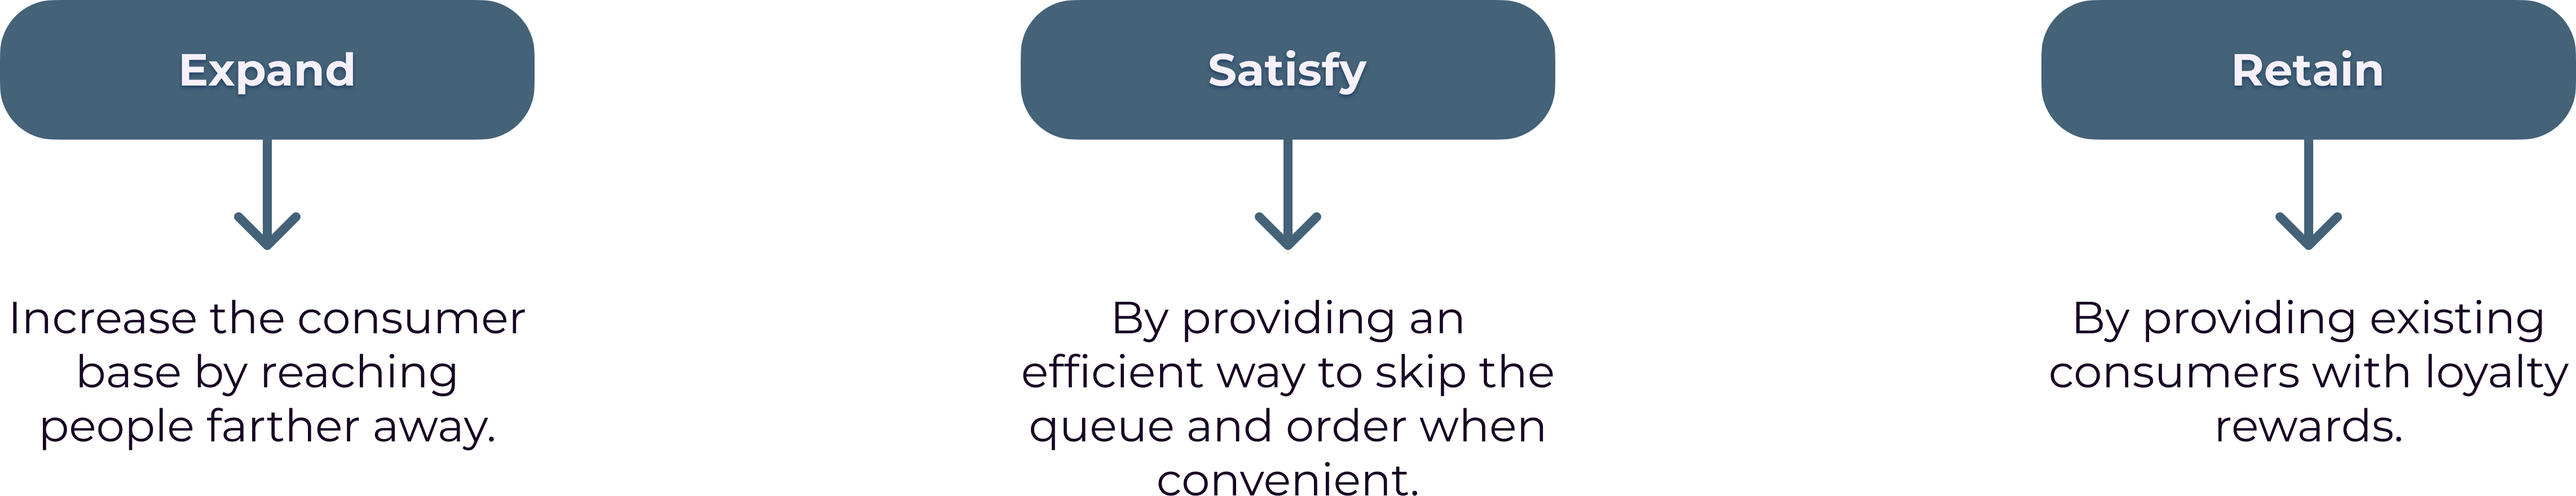
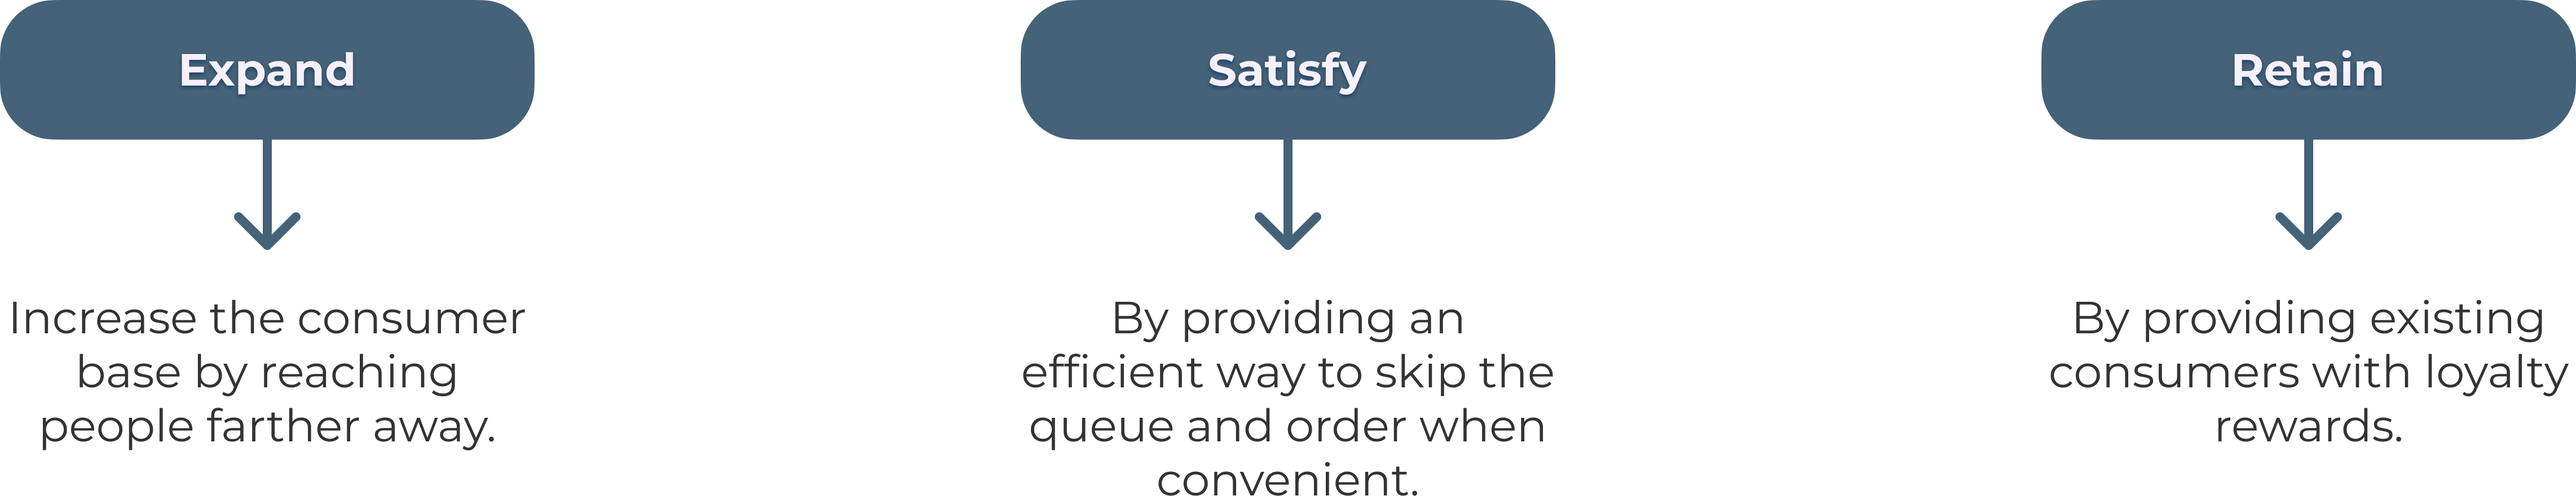
REPLACE IMAGE

diff --git a/src/App.css b/src/App.css
@@ -15,8 +15,8 @@
   --clr-bg-alt: #fff;
   --clr-fg: #333333;
   /* --clr-fg-alt: #444; */
-  --clr-fg-alt: #0a1e2f;
-  --clr-primary: #313334;
+  --clr-fg-alt: #333333;
+  --clr-primary: #333333;
   /* --shadow: rgba(100, 100, 111, 0.2) 0px 7px 29px 0px; */
   --shadow: rgba(0, 0, 0, 0.24) 0px 3px 8px;
 }
